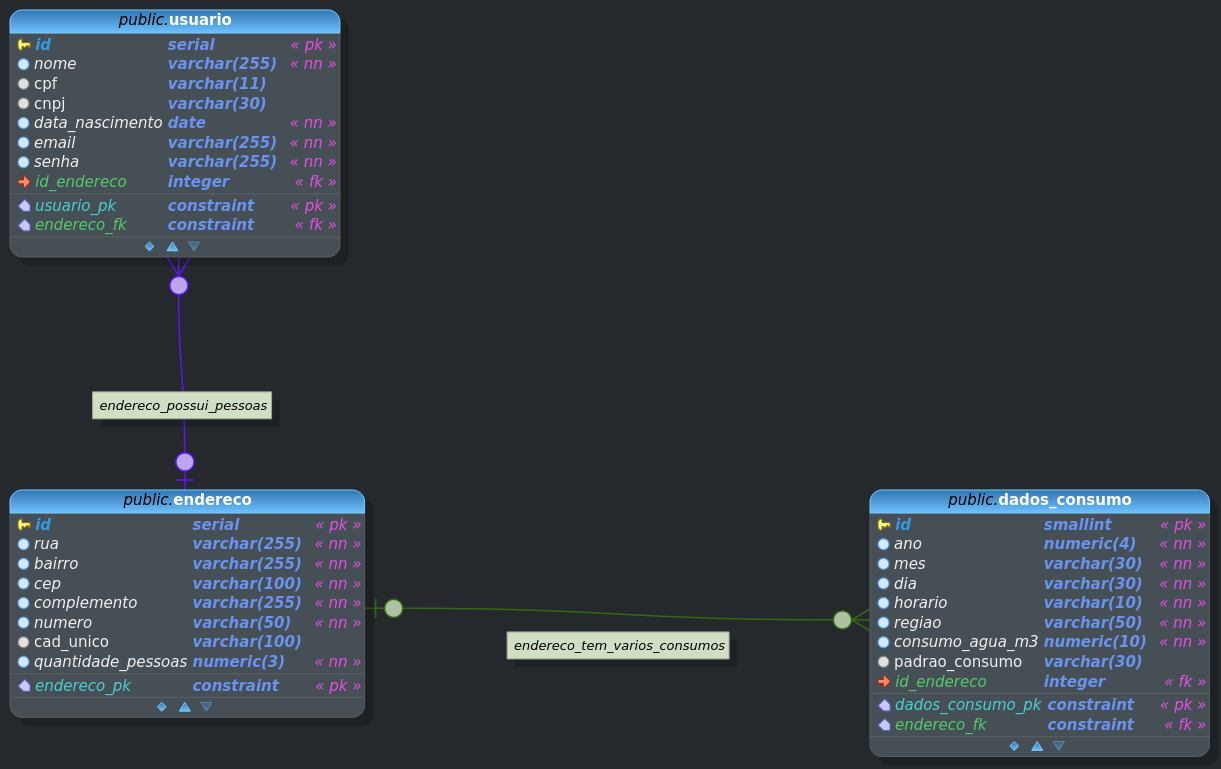
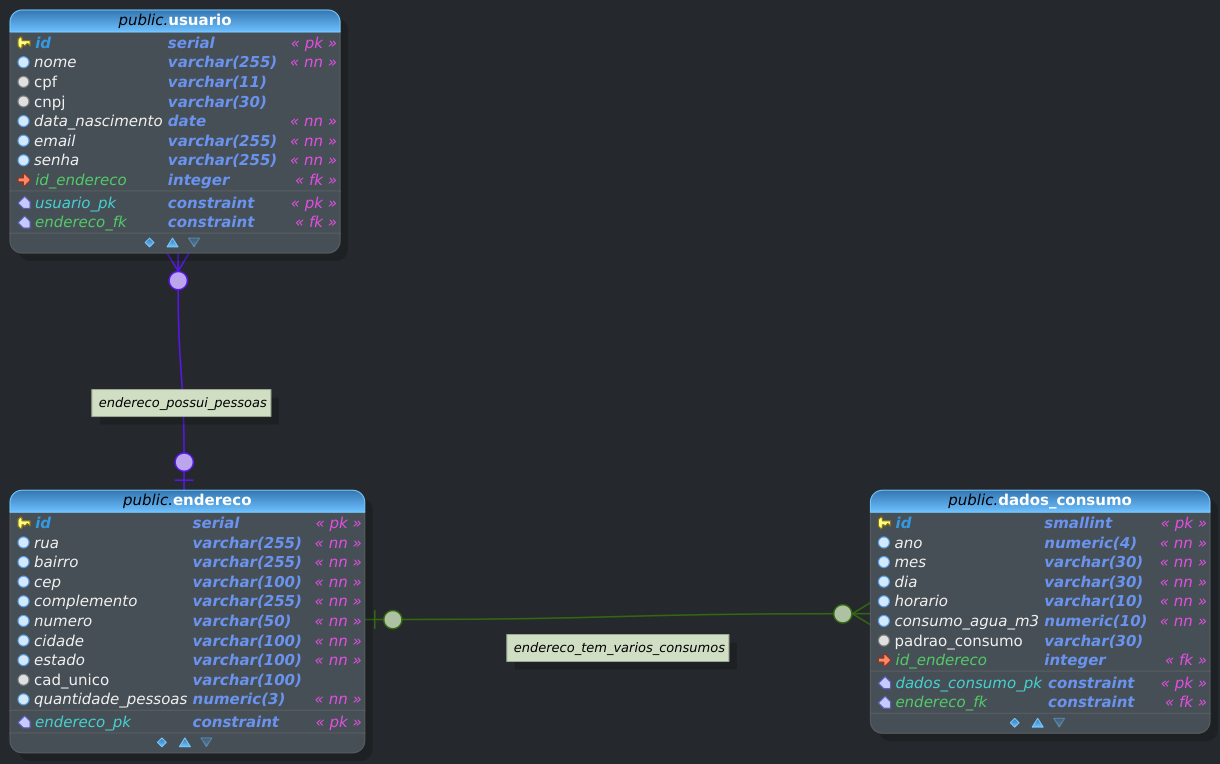
fix: address dto + address entity

Changed region(s): [[0.0, 0.4817, 0.623, 0.9935], [0.623, 0.6322, 0.9967, 0.9935], [0.0, 0.0, 0.2803, 0.3914]]

diff --git a/src/modules/address/entities/address.entity.ts b/src/modules/address/entities/address.entity.ts
@@ -31,15 +31,28 @@ export class Address {
   city: string;
 
   @Column({ name: 'state', type: 'varchar', length: 255, nullable: false })
-  postalCode: string;
+  state: string;
 
   @Column({ name: 'postalCode', type: 'varchar', length: 255, nullable: false })
-  number: string;
+  postalCode: string;
 
   @Column({ name: 'number', type: 'varchar', length: 255, nullable: false })
+  number: string;
+
+  @Column({
+    name: 'amountPeople',
+    type: 'int',
+    nullable: false,
+  })
   amountPeople: number;
 
-  @Column({ name: 'amountPeople', type: 'int', nullable: true, unique: true })
+  @Column({
+    name: 'cadUnico',
+    type: 'varchar',
+    length: 255,
+    nullable: true,
+    unique: true,
+  })
   cadUnico: string;
 
   @OneToMany(() => User, (user) => user.address, { onDelete: 'CASCADE' })

diff --git a/src/modules/address/dto/create-address.dto.ts b/src/modules/address/dto/create-address.dto.ts
@@ -1,3 +1,4 @@
+import { Transform } from 'class-transformer';
 import {
   IsEmpty,
   IsInt,
@@ -43,6 +44,7 @@ export class CreateAddressDto {
     message: 'O campo quantidade de pessoas deve ser um número positivo.',
   })
   @IsNotEmpty({ message: 'O campo quantidade de pessoas não pode ser vazio.' })
+  @Transform(({ value }) => parseInt(value))
   amountPeople: number;
 
   @IsString({ message: 'O campo cadUnico deve ser uma string.' })
